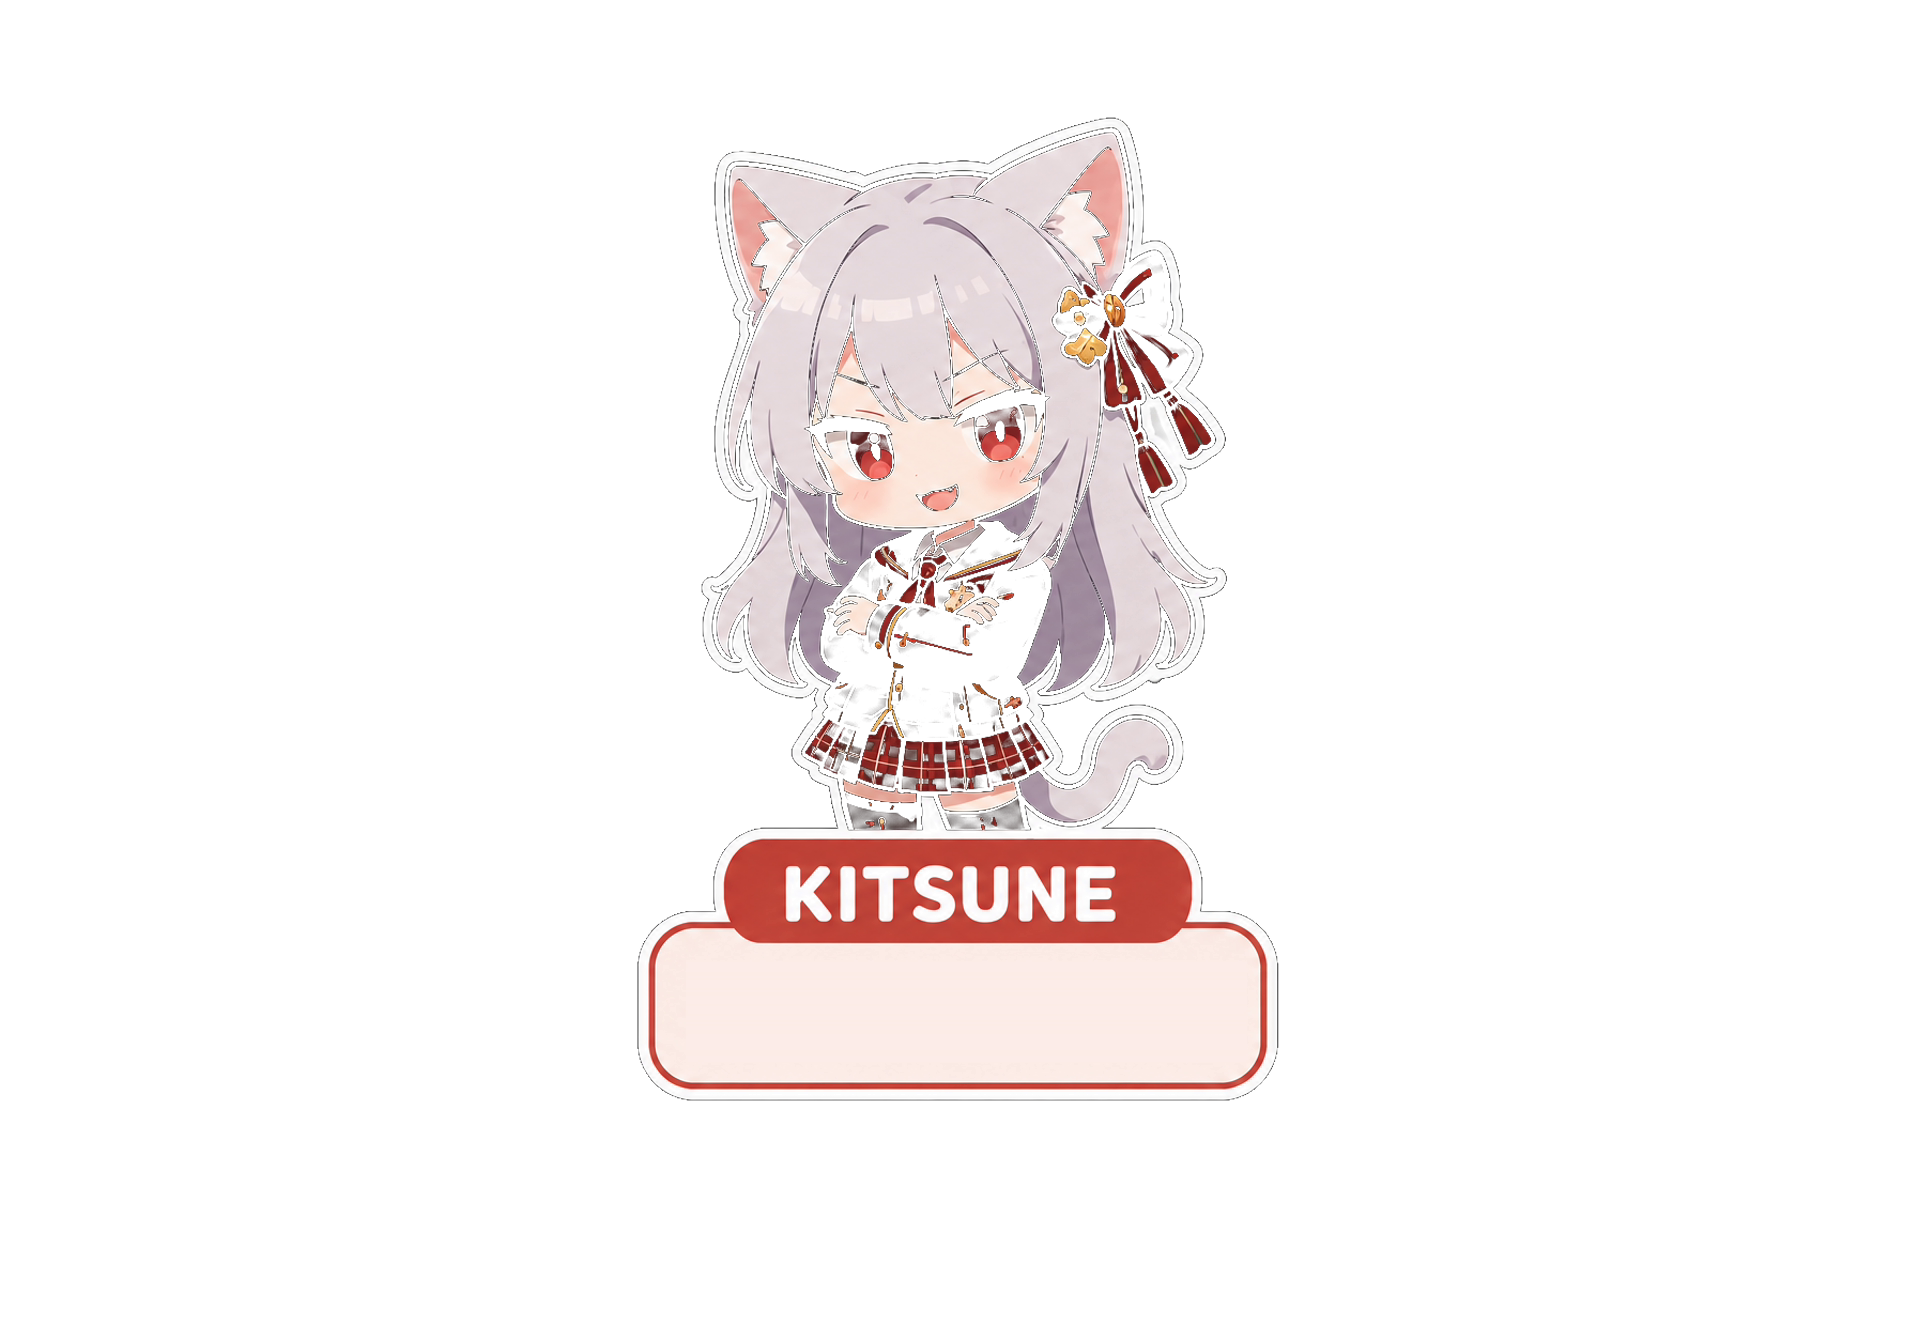
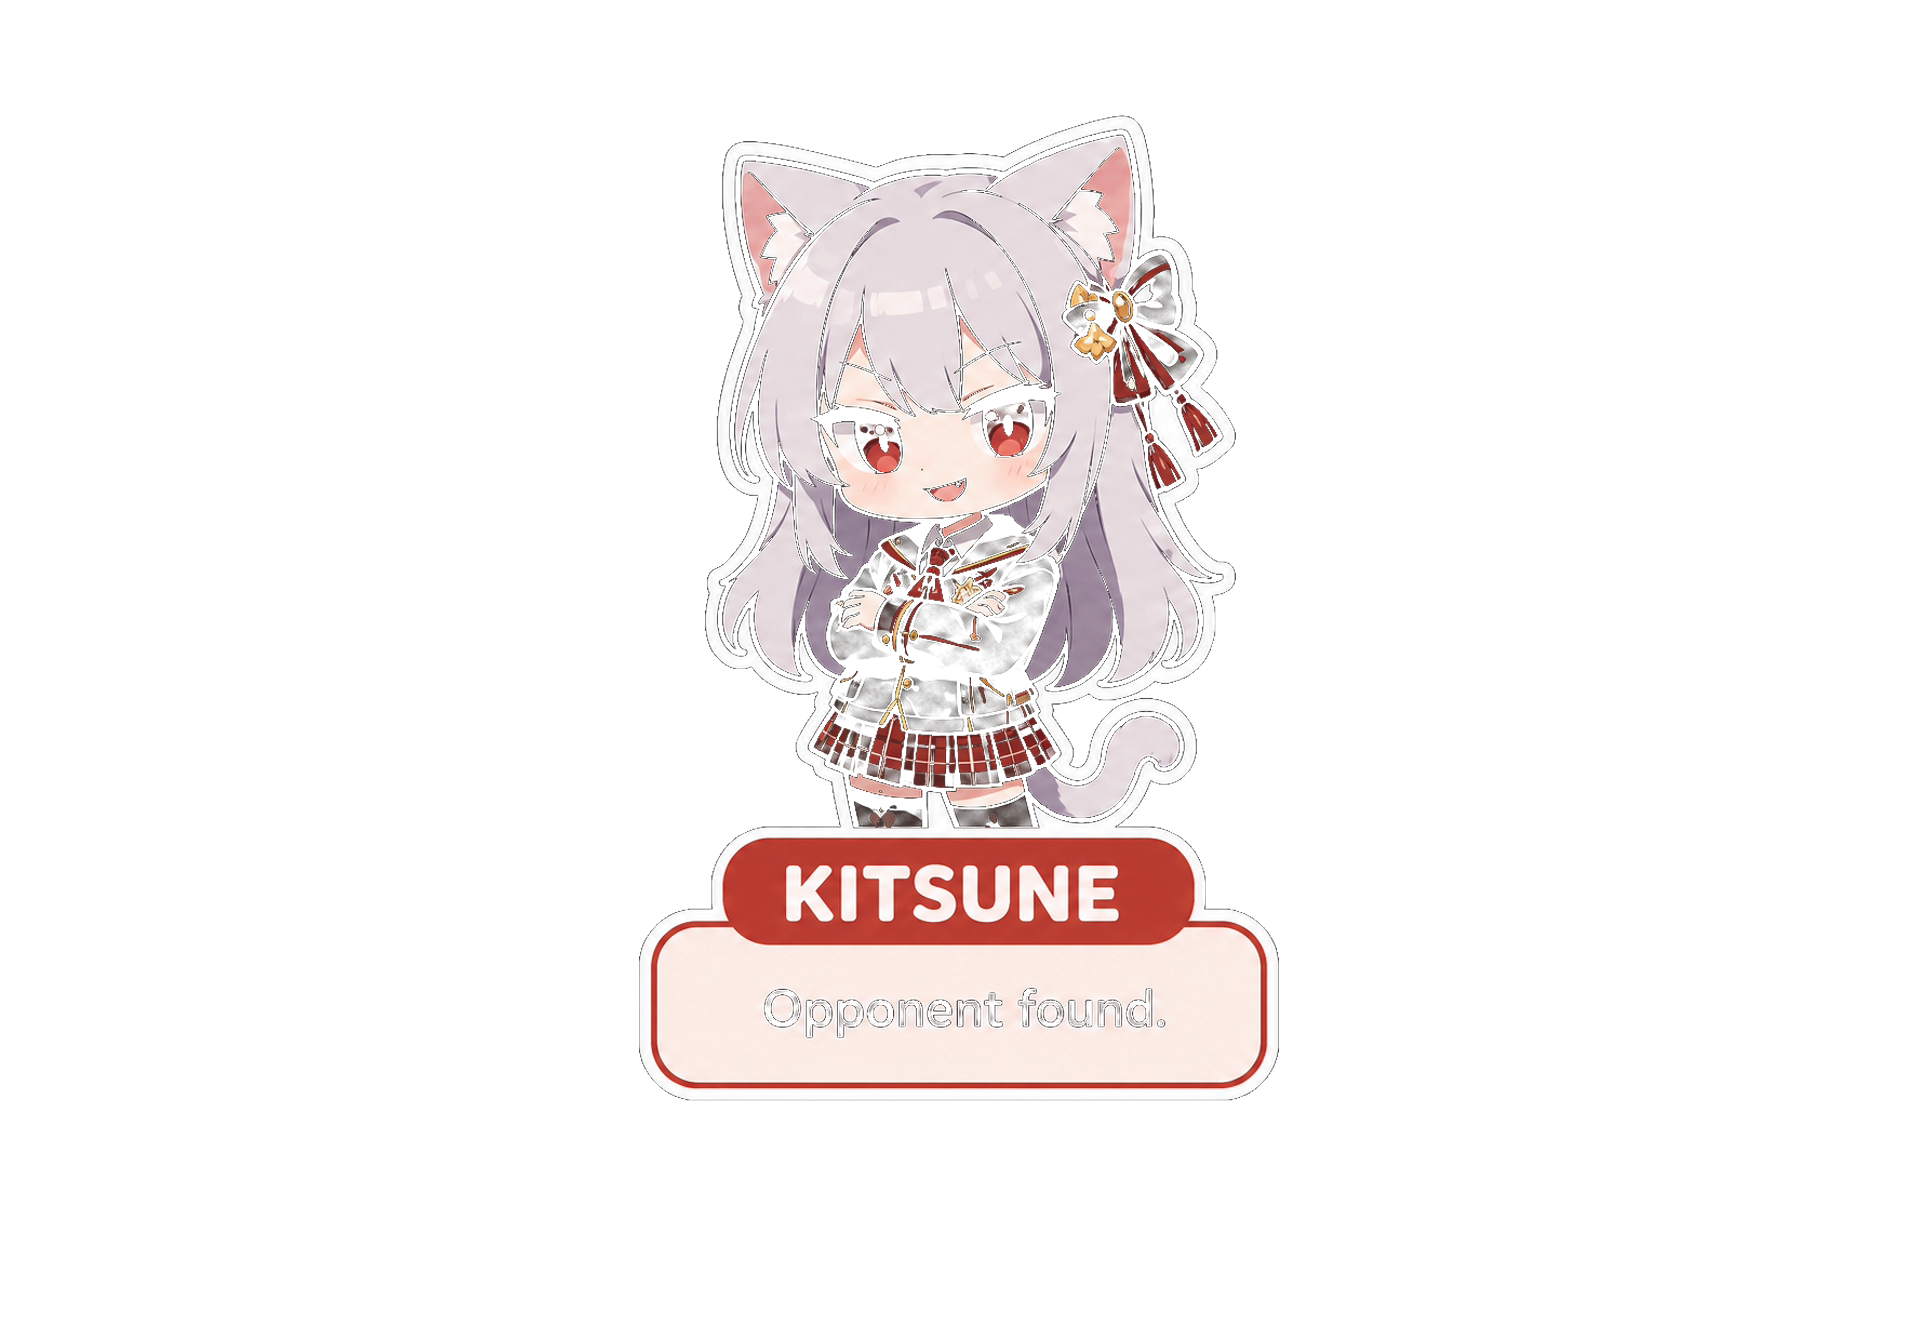
kitsune fix

diff --git a/client/src/styles.css b/client/src/styles.css
@@ -1249,23 +1249,40 @@ button.danger:hover:not(:disabled) {
     drop-shadow(0 12px 20px rgba(0, 0, 0, 0.4));
 }
 .queue-figure .qm.on { opacity: 1; }
-/* Live opponent Elo as TEXT ONLY, sitting on kitsune's now-blank drawn bar
-   (its baked text was painted out with the bar's exact colour). Matched to
-   the original: Nunito SemiBold, warm dark-brown, centred on the bar. */
-.kitsune-elo {
-  position: absolute;
-  left: 50%;
-  top: 76.4%;
-  transform: translate(-50%, -50%);
-  width: 30%;
-  text-align: center;
-  font-family: "Nunito", "Inter", -apple-system, BlinkMacSystemFont,
-    "Segoe UI", Roboto, sans-serif;
-  font-weight: 600;
-  font-size: clamp(11px, 1.95vh, 19px);
-  letter-spacing: -0.2px;
-  color: #2c1c13;
-  white-space: nowrap;
+
+/* Kitsune "opponent found" intermediary: a slightly transparent full-screen
+   overlay shown after the queue's mimikowait beat. It then slides up like a
+   window blind, revealing the battle UI underneath. */
+.found-overlay {
+  position: fixed;
+  inset: 0;
+  z-index: 55;
+  display: flex;
+  align-items: center;
+  justify-content: center;
+  padding: 16px;
+  background: rgba(8, 7, 12, 0.78);
+  backdrop-filter: blur(3px);
+  -webkit-backdrop-filter: blur(3px);
+  transform: translateY(0);
+  transition: transform 0.6s cubic-bezier(0.45, 0, 0.25, 1);
+  will-change: transform;
+}
+.found-overlay.lift { transform: translateY(-100%); }
+.found-figure {
+  position: relative;
+  width: clamp(320px, 58vh, 520px);
+  aspect-ratio: 1920 / 1320;
+}
+.found-figure img {
+  display: block;
+  width: 100%;
+  height: 100%;
+  object-fit: contain;
+  user-select: none;
+  -webkit-user-drag: none;
+  filter: drop-shadow(0 0 30px rgba(139, 92, 246, 0.32))
+    drop-shadow(0 14px 24px rgba(0, 0, 0, 0.45));
 }
 .queue-cancel {
   display: block;

diff --git a/client/src/App.jsx b/client/src/App.jsx
@@ -1045,6 +1045,16 @@ export default function App() {
         </div>
       )}
 
+      {foundOverlay && (
+        <div
+          className={"found-overlay" + (foundOverlay === "up" ? " lift" : "")}
+          aria-hidden="true"
+        >
+          <div className="found-figure">
+            <img src="/kitsune.png" alt="" />
+          </div>
+        </div>
+      )}
 
       {panel === "profile" && (
         <div className="modal-backdrop" onClick={closePanel}>
@@ -1326,14 +1336,9 @@ export default function App() {
               />
               <img
                 className={"qm" + (queueFound ? " on" : "")}
-                src="/kitsune.png"
+                src="/mimikowait.png"
                 alt=""
               />
-              {queueFound && (
-                <span className="kitsune-elo">
-                  {opponent?.elo ?? "?"} ELO opponent found.
-                </span>
-              )}
             </div>
             {!queueFound && (
               <button

diff --git a/client/index.html b/client/index.html
@@ -6,12 +6,6 @@
     <link rel="icon" type="image/png" href="/anitune.png?v=2" />
     <link rel="apple-touch-icon" href="/anitune.png?v=2" />
     <title>AniTune</title>
-    <link rel="preconnect" href="https://fonts.googleapis.com" />
-    <link rel="preconnect" href="https://fonts.gstatic.com" crossorigin />
-    <link
-      href="https://fonts.googleapis.com/css2?family=Nunito:wght@600;700&display=swap"
-      rel="stylesheet"
-    />
   </head>
   <body>
     <div id="root"></div>
